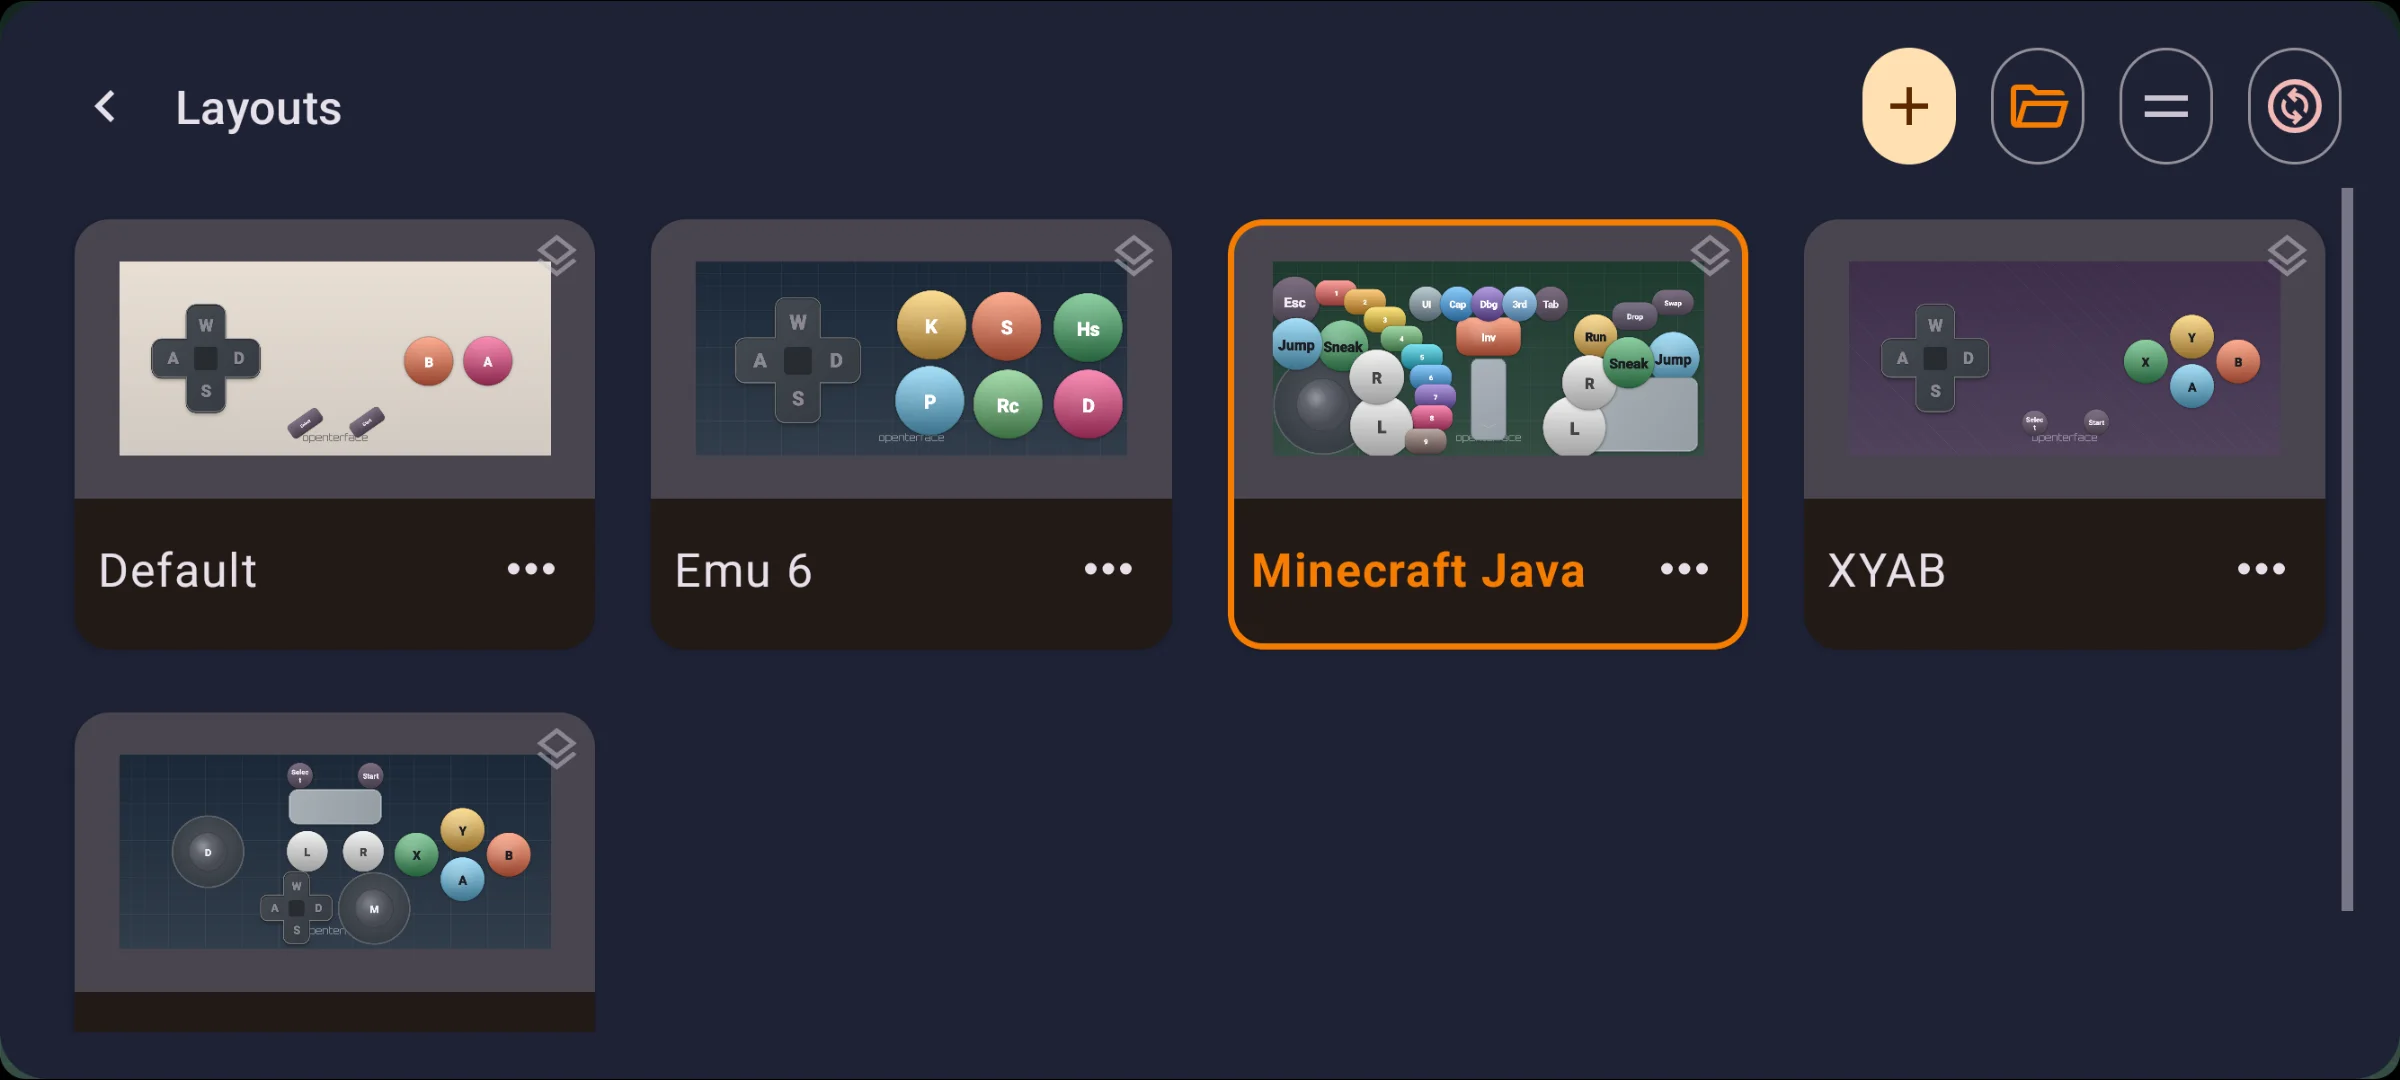
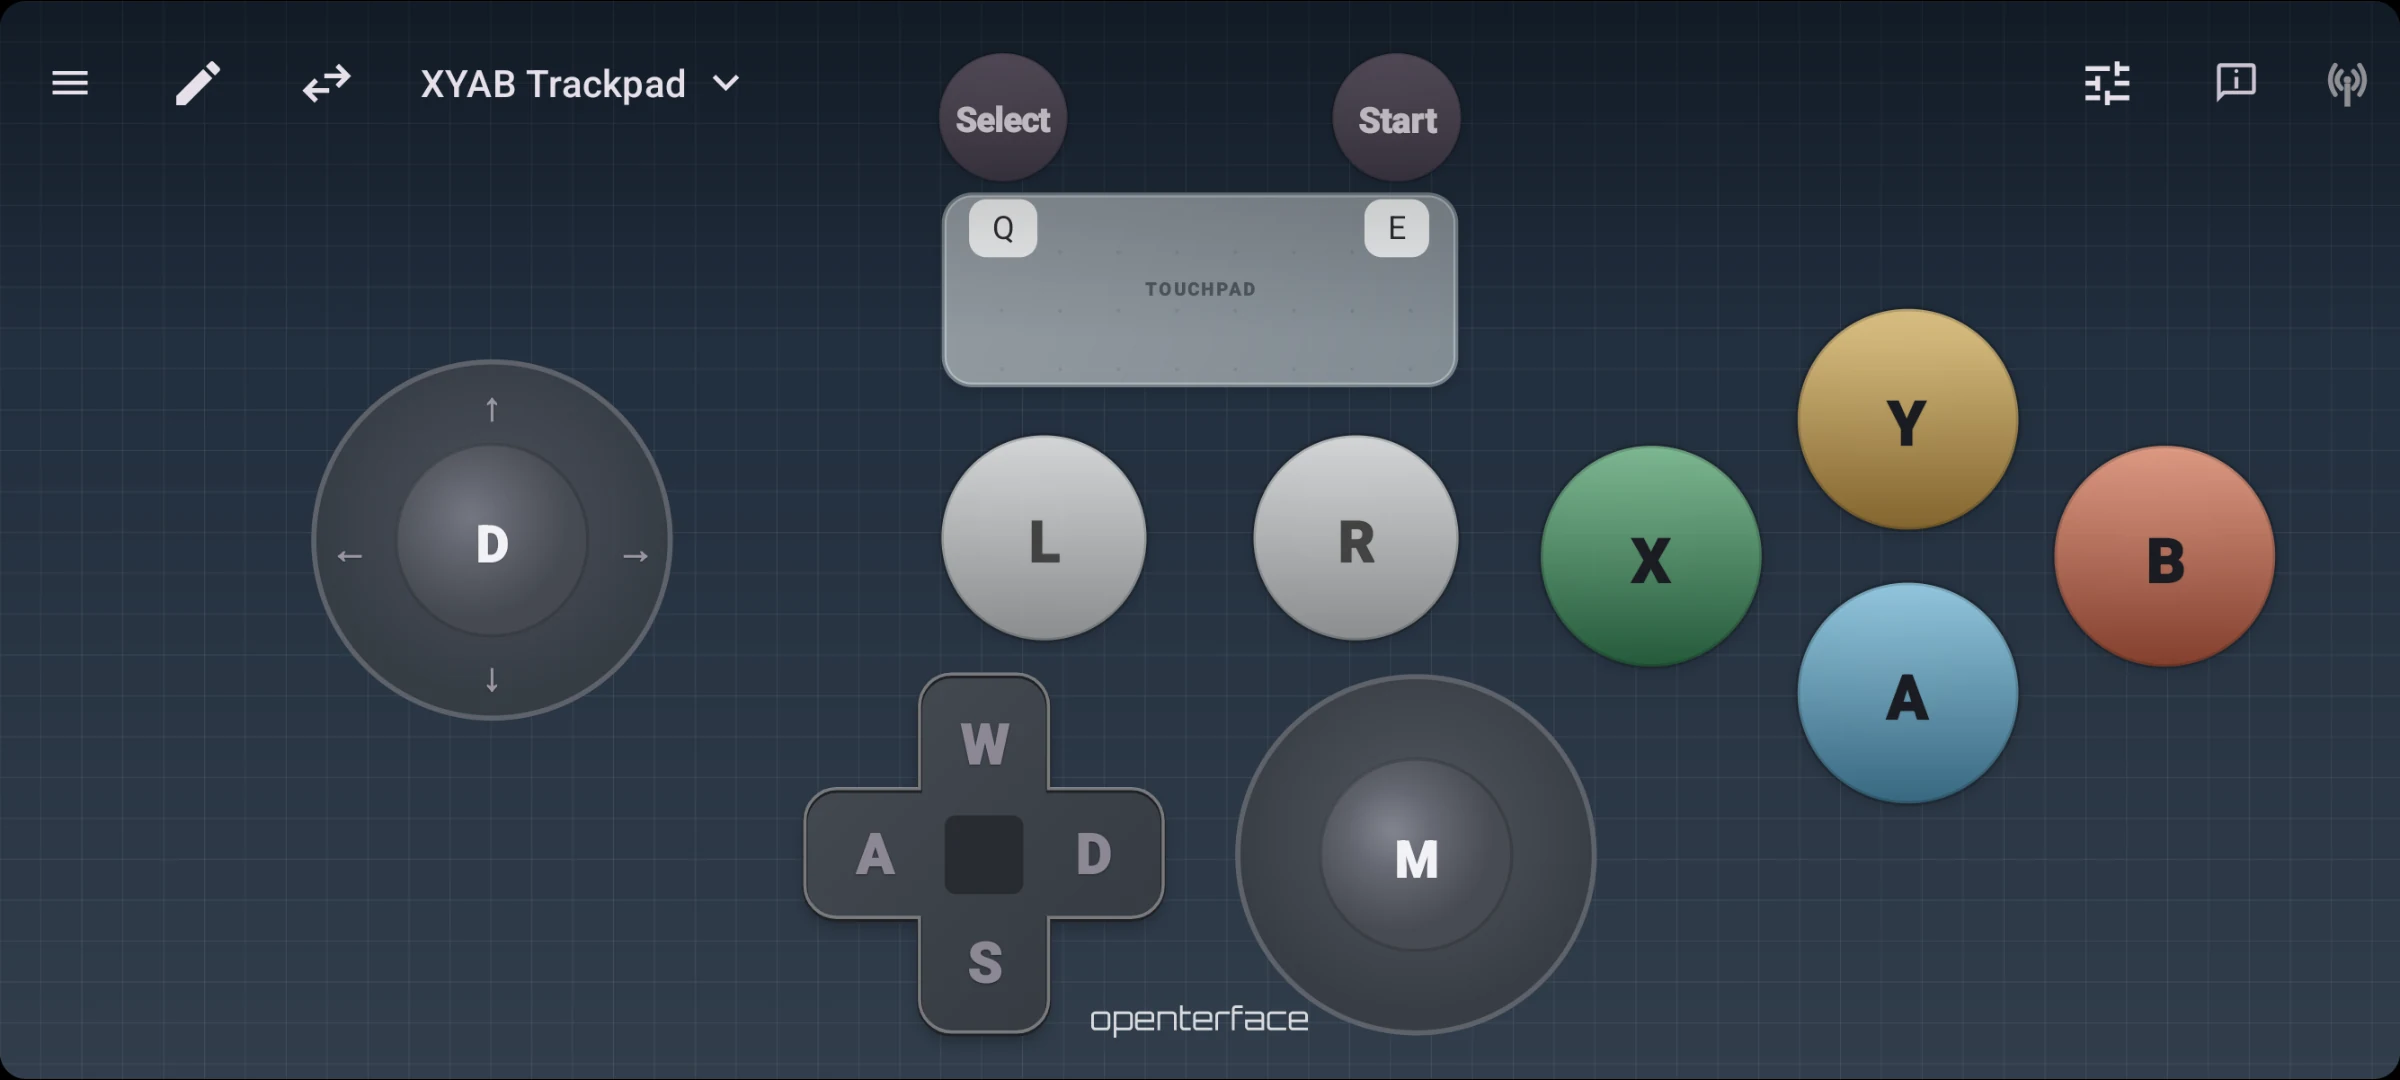
Refresh Game Zone preset carousel with XYAB Trackpad screenshot.
Replace the layout still, reorder presets (Default → XYAB → Emu 6 → XYAB Trackpad → Minecraft Java), and rename the former Preset chip slide.

diff --git a/src/i18n/keymodLanding.ts b/src/i18n/keymodLanding.ts
@@ -600,24 +600,24 @@ pm2 reload ecosystem.config.js --env production`,
             imageAlt: 'KeyCmd gamepad Default preset, WASD D-pad with A and B face buttons',
           },
           {
-            label: 'Emu 6',
-            imageSrc: '/keymod/rebirth/gamepad/gamepad-preset-emu6.webp',
-            imageAlt: 'KeyCmd Emu 6 preset, six-button arcade-style layout on dark grid',
-          },
-          {
-            label: 'Minecraft Java',
-            imageSrc: '/keymod/rebirth/gamepad/gamepad-preset-minecraft.webp',
-            imageAlt: 'KeyCmd Minecraft Java preset, hotbar, look zone, and movement controls',
-          },
-          {
             label: 'XYAB',
             imageSrc: '/keymod/rebirth/gamepad/gamepad-preset-xyab.webp',
             imageAlt: 'KeyCmd XYAB preset, Nintendo-style face buttons with WASD D-pad',
           },
           {
-            label: 'Preset chip',
+            label: 'Emu 6',
+            imageSrc: '/keymod/rebirth/gamepad/gamepad-preset-emu6.webp',
+            imageAlt: 'KeyCmd Emu 6 preset, six-button arcade-style layout on dark grid',
+          },
+          {
+            label: 'XYAB Trackpad',
             imageSrc: '/keymod/rebirth/gamepad/gamepad-preset-layout.webp',
-            imageAlt: 'KeyCmd gamepad preset picker, cycle layouts from the toolbar chip',
+            imageAlt: 'KeyCmd XYAB Trackpad preset, touchpad with XYAB face buttons and dual sticks',
+          },
+          {
+            label: 'Minecraft Java',
+            imageSrc: '/keymod/rebirth/gamepad/gamepad-preset-minecraft.webp',
+            imageAlt: 'KeyCmd Minecraft Java preset, hotbar, look zone, and movement controls',
           },
         ],
       },